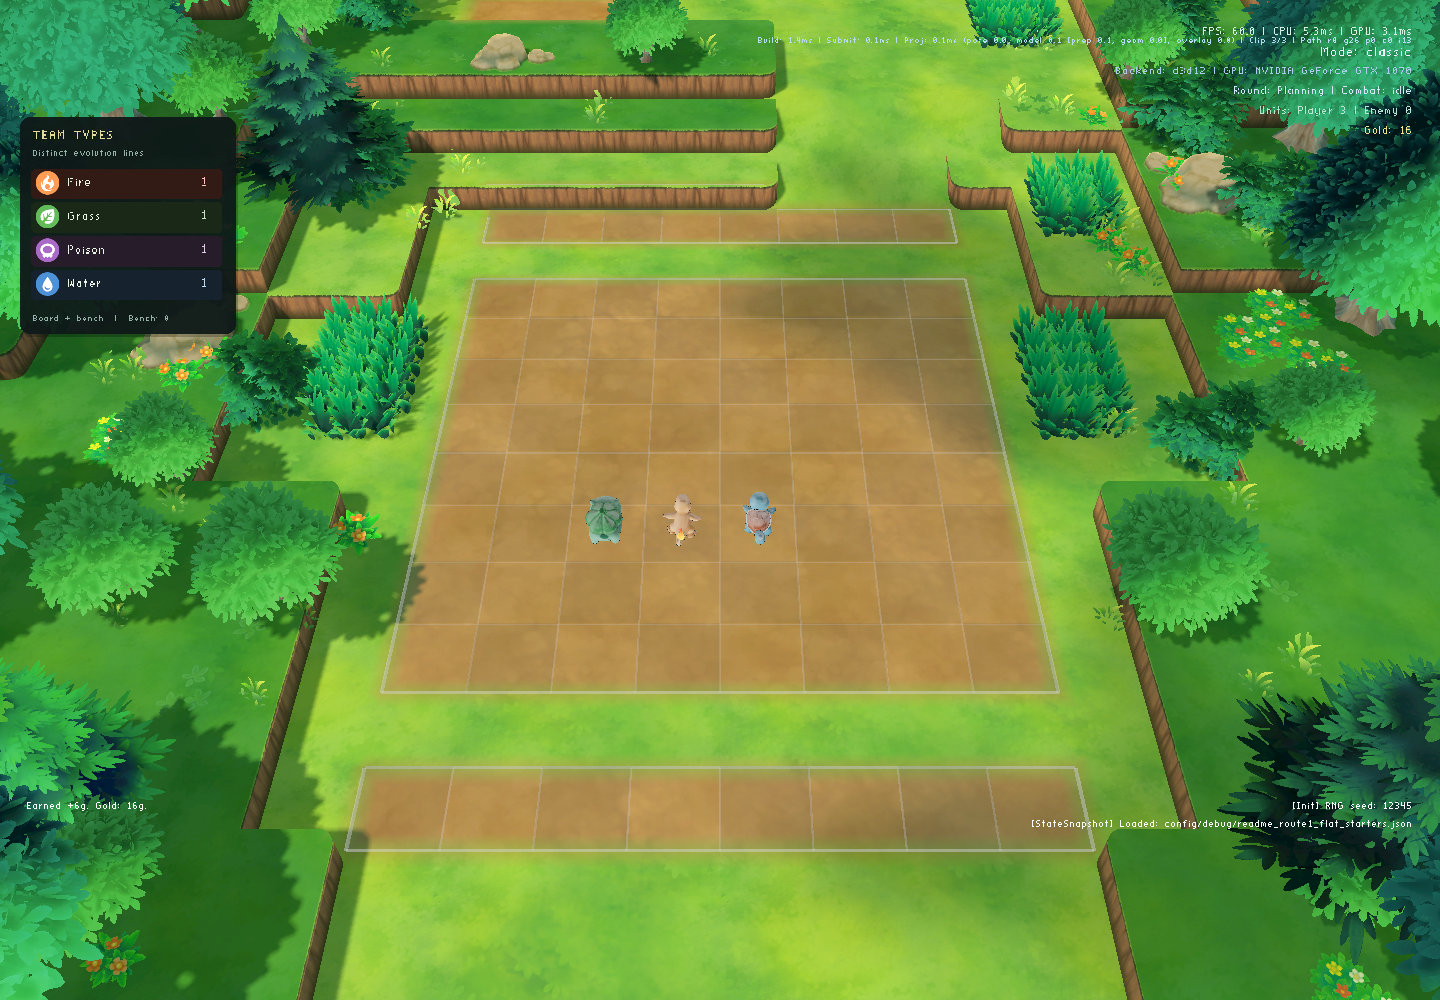
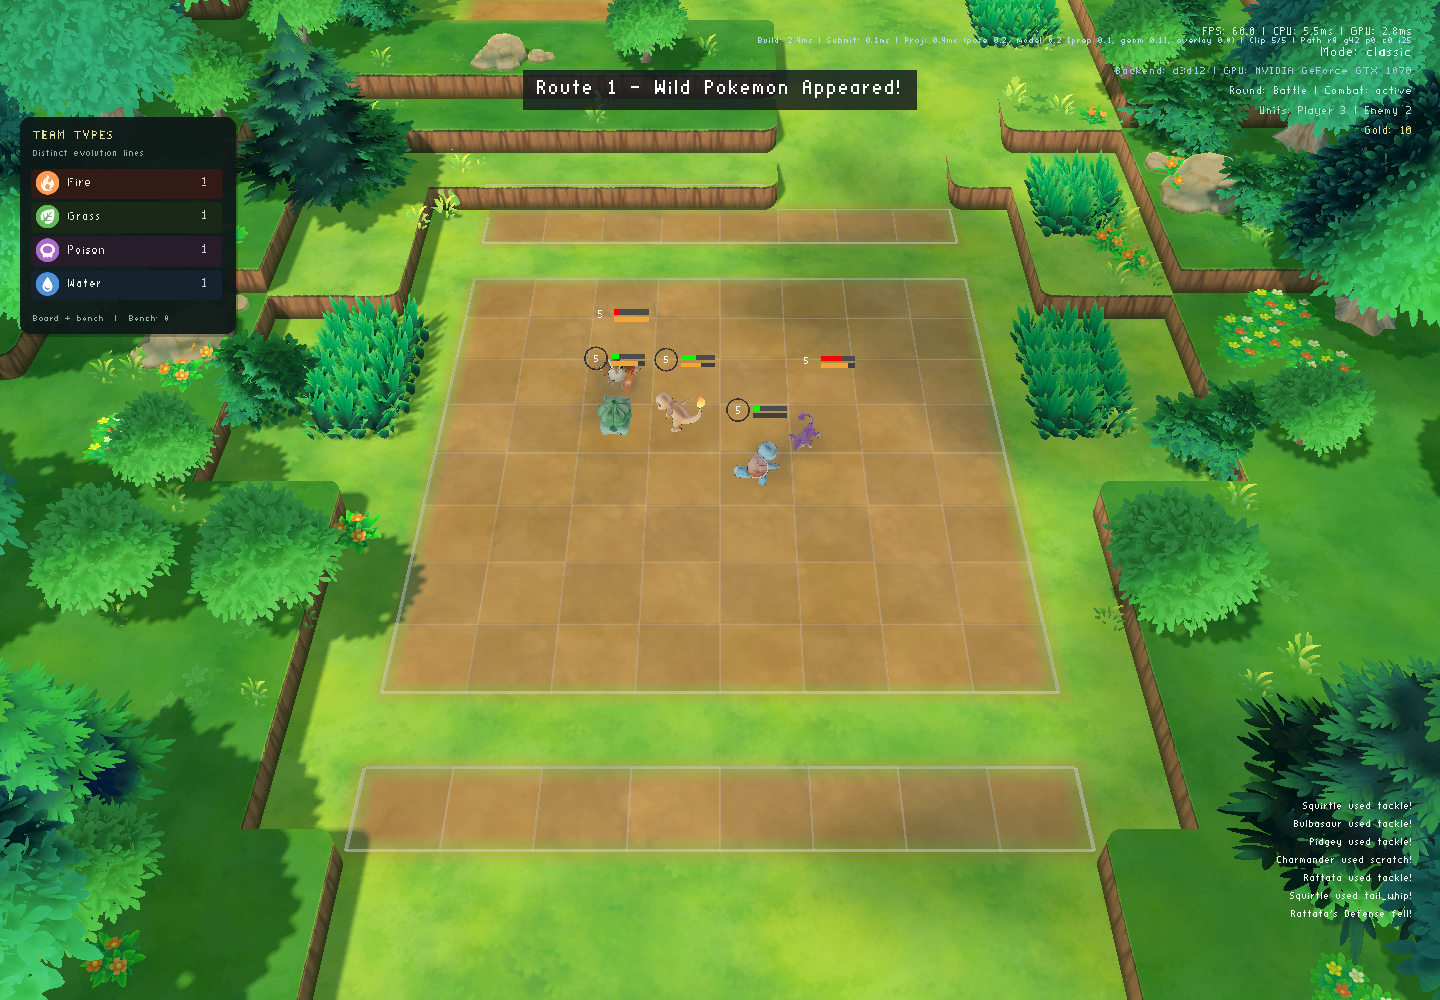
Show the starter trio battling Route 1 opponents in README

diff --git a/docs/DEMO_MEDIA_CAPTURE.md b/docs/DEMO_MEDIA_CAPTURE.md
@@ -23,14 +23,15 @@ with no painted-over content or generated mockups:
 
 | Tracked image | Capture source | Renderer |
 | --- | --- | --- |
-| `docs/assets/readme/route1-flat-starters.png` | Flat Dirt Experiment with the starter trio, full game frame | Direct3D 12 |
+| `docs/assets/readme/route1-flat-starters.png` | Starter trio battling Pidgey and Rattata on the Flat Dirt Experiment, full game frame | Direct3D 12 |
 | `docs/assets/readme/bulbasaur-material.png` | `starter-bulbasaur`, cropped model preview | Direct3D 12 |
 | `docs/assets/readme/charmander-material.png` | `charmander-fire`, cropped model preview | Direct3D 12 |
 | `docs/assets/readme/squirtle-material.png` | `starter-squirtle`, cropped model preview | Direct3D 12 |
 
 The arena capture explicitly selects `routes/route1-flat-experiment`, the current
 editor startup scene in `phlosion.project.json`, through
-`config/debug/readme_route1_flat_starters.json`. Its Blender source and exported
+`config/debug/readme_route1_flat_starters.json`. This fixture starts an active
+battle with the three starters against Pidgey and Rattata. Its Blender source and exported
 bundle are recorded in `config/environment/route1_flat_experiment.authoring.json`.
 Older Route 1 gameplay fixtures select the legacy layout independently of the
 editor startup setting; do not use them to regenerate this image.
@@ -48,7 +49,7 @@ Regenerate candidates on the Windows GPU workstation with the private asset
 depot restored and a current Release game/editor pair:
 
 ```powershell
-.\tools\environment\capture_arena_pilot.ps1 -Backend d3d12 -Snapshot config/debug/readme_route1_flat_starters.json -OutputDirectory debug/readme-current-route/flat-arena
+.\tools\environment\capture_arena_pilot.ps1 -Backend d3d12 -Snapshot config/debug/readme_route1_flat_starters.json -Frame 240 -OutputDirectory debug/readme-flat-combat/frame240
 .\tools\check_character_materials.ps1 -Cases starter-bulbasaur,charmander-fire,starter-squirtle -OutputDirectory debug/readme-current-route/materials
 ```
 

diff --git a/README.md b/README.md
@@ -52,9 +52,9 @@ separate repositories and verification boundaries.
 
 ## Product Preview
 
-[![Bulbasaur, Charmander and Squirtle on the Blender-authored Route 1 Flat Dirt Experiment](docs/assets/readme/route1-flat-starters.png)](docs/assets/readme/route1-flat-starters.png)
+[![Bulbasaur, Charmander and Squirtle battling Pidgey and Rattata on the Blender-authored Route 1 Flat Dirt Experiment](docs/assets/readme/route1-flat-starters.png)](docs/assets/readme/route1-flat-starters.png)
 
-*The Blender-authored Route 1 Flat Dirt Experiment—the current editor startup map—with the three Kanto starters in the native Direct3D 12 game.*
+*Bulbasaur, Charmander and Squirtle battle Pidgey and Rattata on the Blender-authored Route 1 Flat Dirt Experiment, the current editor startup map. Captured in the native Direct3D 12 game.*
 
 | Bulbasaur | Charmander | Squirtle |
 | --- | --- | --- |
